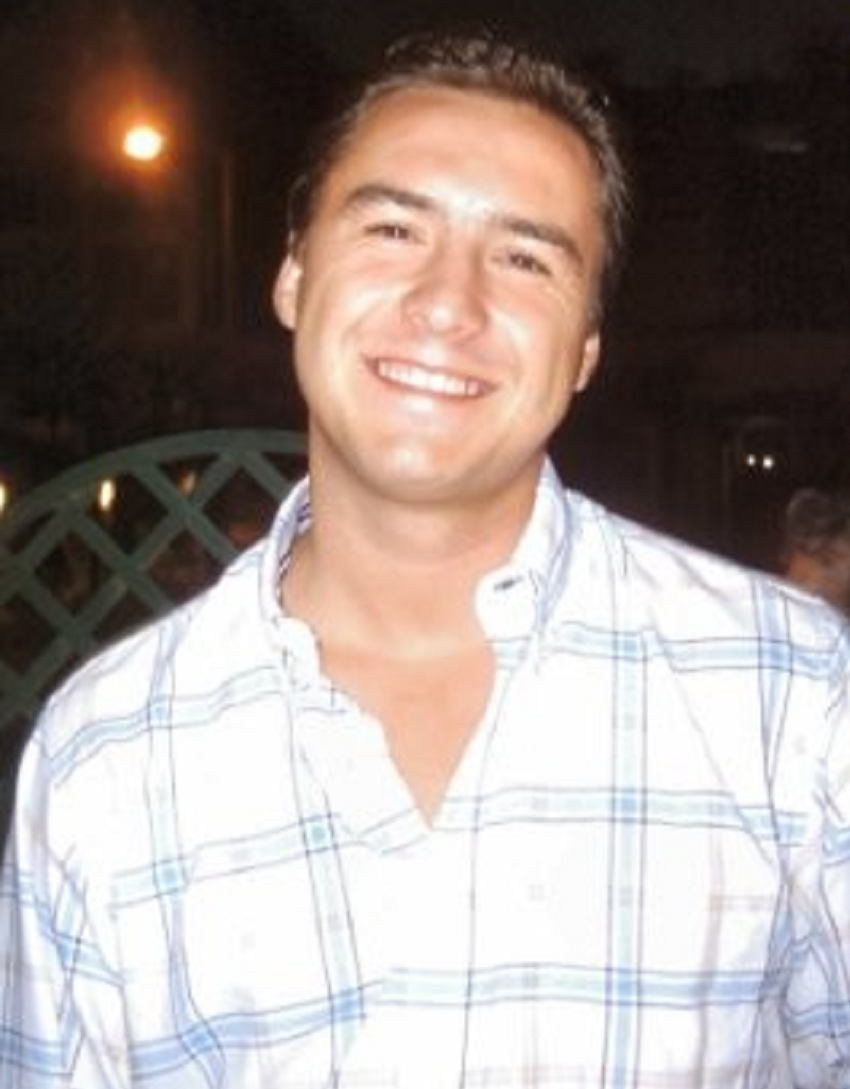
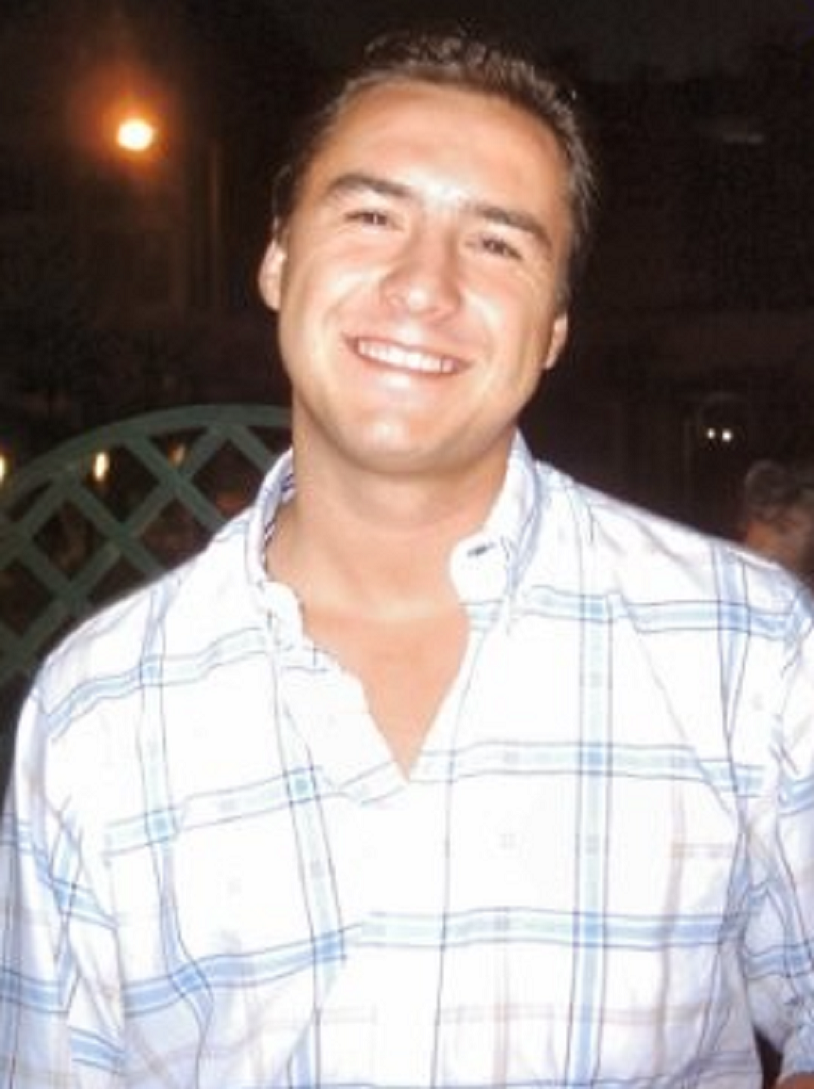
39v

diff --git a/index.html b/index.html
@@ -47,6 +47,7 @@
   <section id="hero" class="d-flex align-items-center justify-content-center">
     <div class="container position-relative">
       <h1>Sistemas Robótica</h1>
+      <h4>Projeto Final</h4>
       <h2>Universidade Autónoma de Lisboa</h2>
       <a href="#about" class="btn-get-started scrollto">Introdução</a>
     </div>
@@ -64,13 +65,13 @@
           <div class="col-lg-6 pt-4 pt-lg-0">
             <h3>Introdução</h3>
             <p style="text-align: justify;">
-              A Robótica está hoje presente em praticamente em todos os setores da indústria. Desenvolver robôts com
-              sistemas que sejam confiáveis, que propocionem uma eficiência operacional na execução das suas funções e
-              acima de tudo que tragam segurança aos seus utilizadores são alguns dos pontos essenciais para os
+              A Robótica está presente em praticamente todos os setores da indústria. Desenvolver robôts com
+              sistemas confiáveis, que propocionem uma eficiência operacional na execução das suas funções e
+              acima de tudo que tragam segurança aos seus utilizadores, estes são alguns dos pontos essenciais para os
               diferentes projetos do setor industrial. Um dos pilares da Indústria 4.0 é o desenvolvimento de robôts
               autônomos com um comportamento inteligente e que sejam cooperativos entre si. A Indústria 4.0 centra-se no
-              desenvolvimento de processos mais autônomos e eficientes bem como oferecer soluções customizadas para
-              produção e logística . Para que isso seja possível utilizam-se tecnologias de automação industrial
+              desenvolvimento de processos mais autônomos e eficientes bem como oferecer soluções personalizadas para
+              produção e logística. Para que isso seja possível utilizam-se tecnologias de automação industrial
               juntamente com sensores. O objetivo é criar um sistema produtivo mais inteligente e ampliar a capacidade
               de resolução de problemas sem a necessidade de interferência humana. No entanto, para que isso aconteça, é
               essencial haver uma constante troca de informações entre todas as etapas da cadeia de produção.
@@ -421,7 +422,7 @@
           <div class="col-lg-3 col-md-6 d-flex align-items-stretch">
             <div class="member">
               <div class="member-img">
-                <img src="./assets/img/Joao4.jpg" class="img-fluid" alt="">
+                <img src="./assets/img/Joao.jpg" class="img-fluid" alt="">
               </div>
               <div class="member-info">
                 <h4>João Ferreira</h4>
